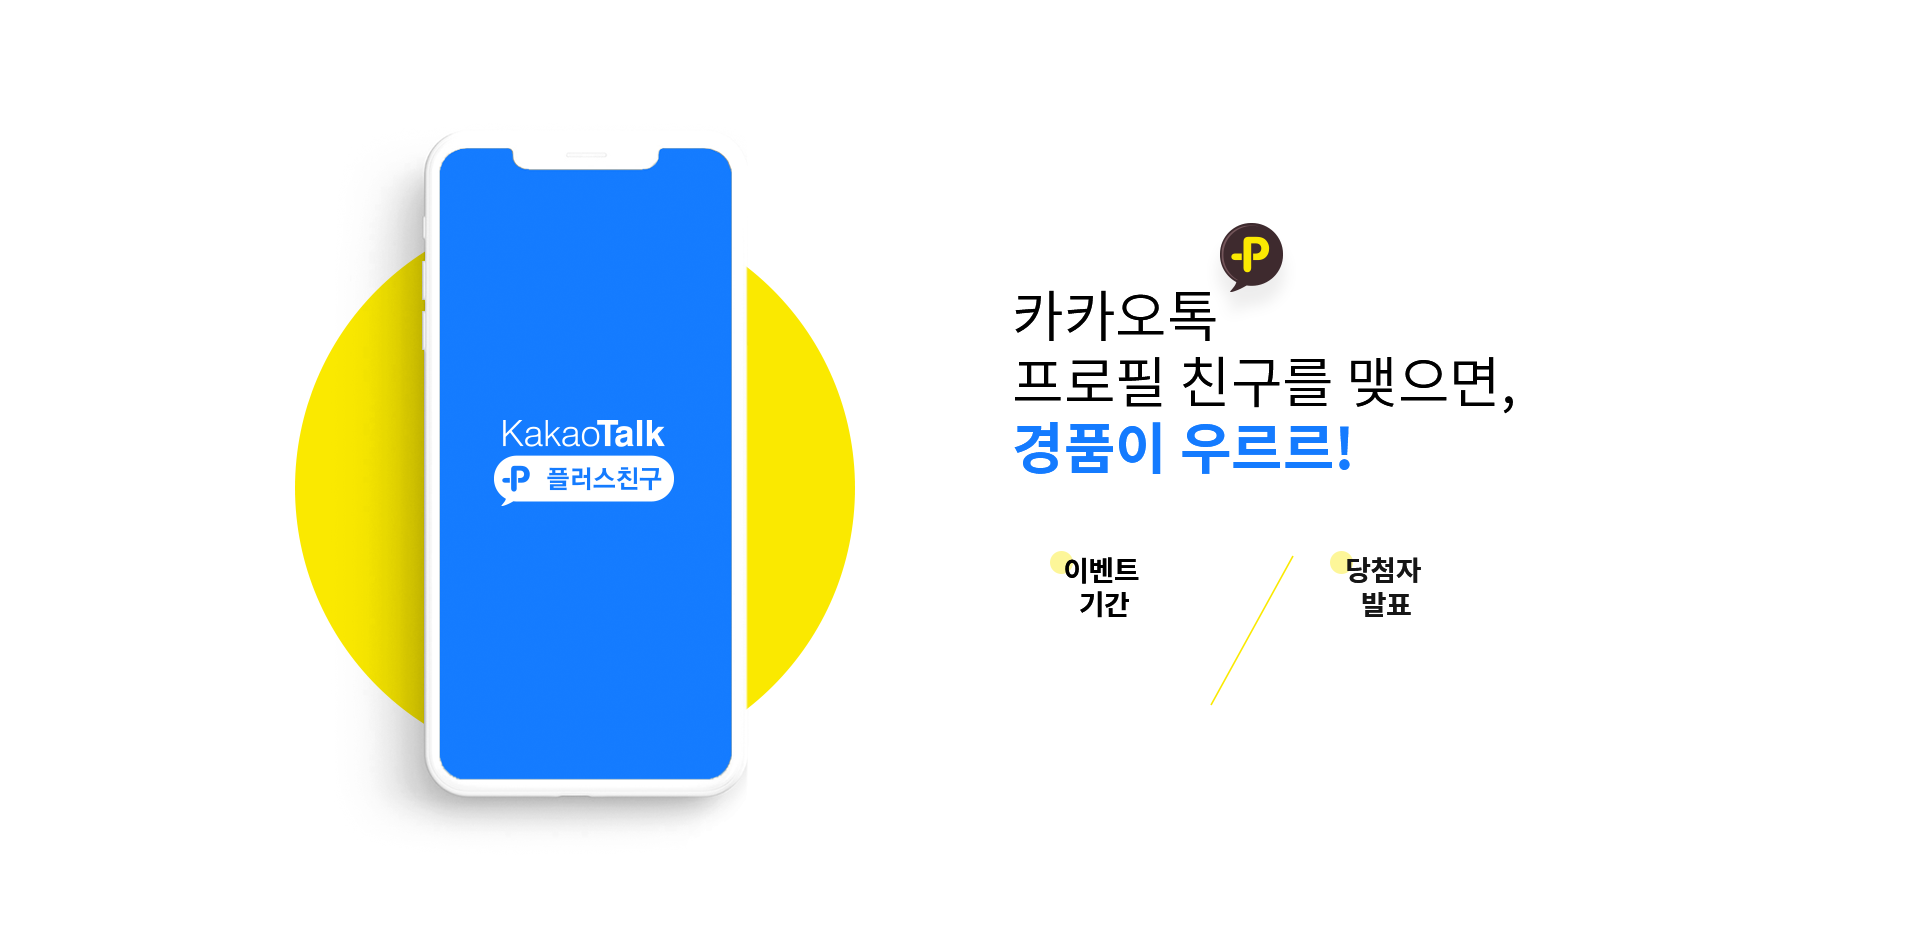
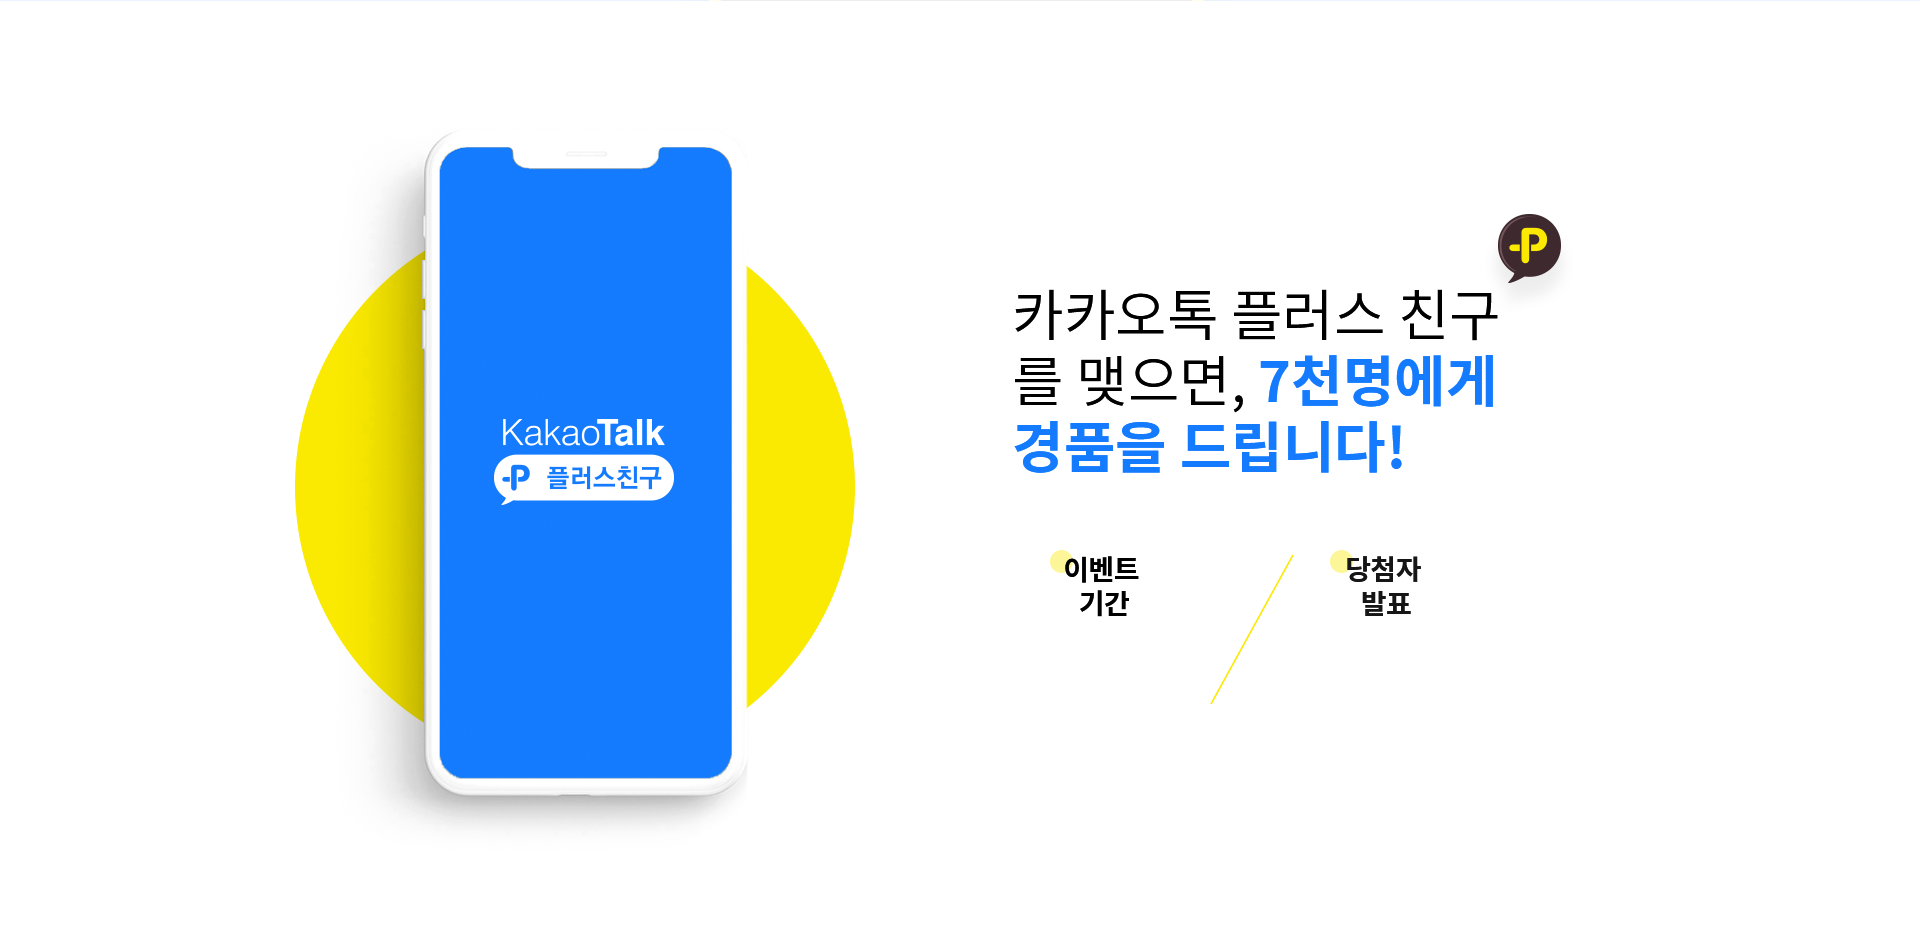
이벤트 수정

diff --git a/kcp/mo/assets/css/ui.css b/kcp/mo/assets/css/ui.css
@@ -3025,11 +3025,11 @@ button.swiper-pagination-bullet { border: none; margin: 0; padding: 0; -webkit-b
 
 .eventpage .event_bg2 { position: relative; padding-top: 75px; }
 
-.eventpage .event_bg2 .conts { top: 37%; left: 50%; width: 100%; max-width: 600px; -webkit-transform: translateX(-50%); transform: translateX(-50%); }
+.eventpage .event_bg2 .conts { top: 41%; left: 50%; width: 100%; max-width: 600px; -webkit-transform: translateX(-50%); transform: translateX(-50%); }
 
-.eventpage .event_bg2 .conts .info { float: left; width: 50%; color: #666; font-size: 12px; font-weight: 350; line-height: 18px; letter-spacing: -0.02em; text-align: left; padding-left: 20%; }
+.eventpage .event_bg2 .conts .info { float: left; width: 50%; color: #666; font-size: 12px; font-weight: 350; line-height: 18px; letter-spacing: -0.02em; text-align: left; padding-left: 17.5%; }
 
-.eventpage .event_bg2 .conts .info_2 { padding-left: 15%; text-align: left; }
+.eventpage .event_bg2 .conts .info_2 { padding-left: 5.5%; text-align: left; }
 
 .eventpage.retail .event_bg1 .conts { top: 58.256%; left: 10%; -webkit-transform: none; transform: none; text-align: left; }
 

diff --git a/kcp/event/event_201208.html b/kcp/event/event_201208.html
@@ -33,10 +33,10 @@
 		</div>
 		<div class="event_bg2" id="contents">
 			<img src="images/event_bg2-201208.png" class="img"/>
-			<p class="a11y">카카오톡 프로필 친구를 맺으면, 경품이 우르르!</p>
+			<p class="a11y">카카오톡 플러스 친구를 맺으면, 7천명에게 경품을 드립니다!</p>
 			<div class="conts">
 				<p class="info info_1">2020년 12월 14일~<br>2021년 1월 2일</p>
-				<p class="info info_2">이벤트 참여<br>즉시 제공</p>
+				<p class="info info_2">이벤트 참여 즉시 당첨<br>(경품 추후 랜덤 발송)</p>
 			</div>
 		</div>
 		<div class="event_bg3">

diff --git a/kcp/event/mo-event_201208.html b/kcp/event/mo-event_201208.html
@@ -33,10 +33,10 @@
 
 		<div class="event_bg2" id="contents">
 			<img src="images/mo-201208-event_bg2.png" class="img"/>
-			<p class="a11y">카카오톡 프로필 친구를 맺으면, 경품이 우르르!</p>
+			<p class="a11y">카카오톡 플러스 친구를 맺으면, 7천명에게 경품을 드립니다!</p>
 			<div class="conts">
 				<p class="info info_1">2020년 12월 14일~<br>2021년 1월 2일</p>
-				<p class="info info_2">이벤트 참여<br>즉시 제공</p>
+				<p class="info info_2">이벤트 참여 즉시 당첨<br>(경품 추후 랜덤 발송)</p>
 			</div>
 		</div>
 
